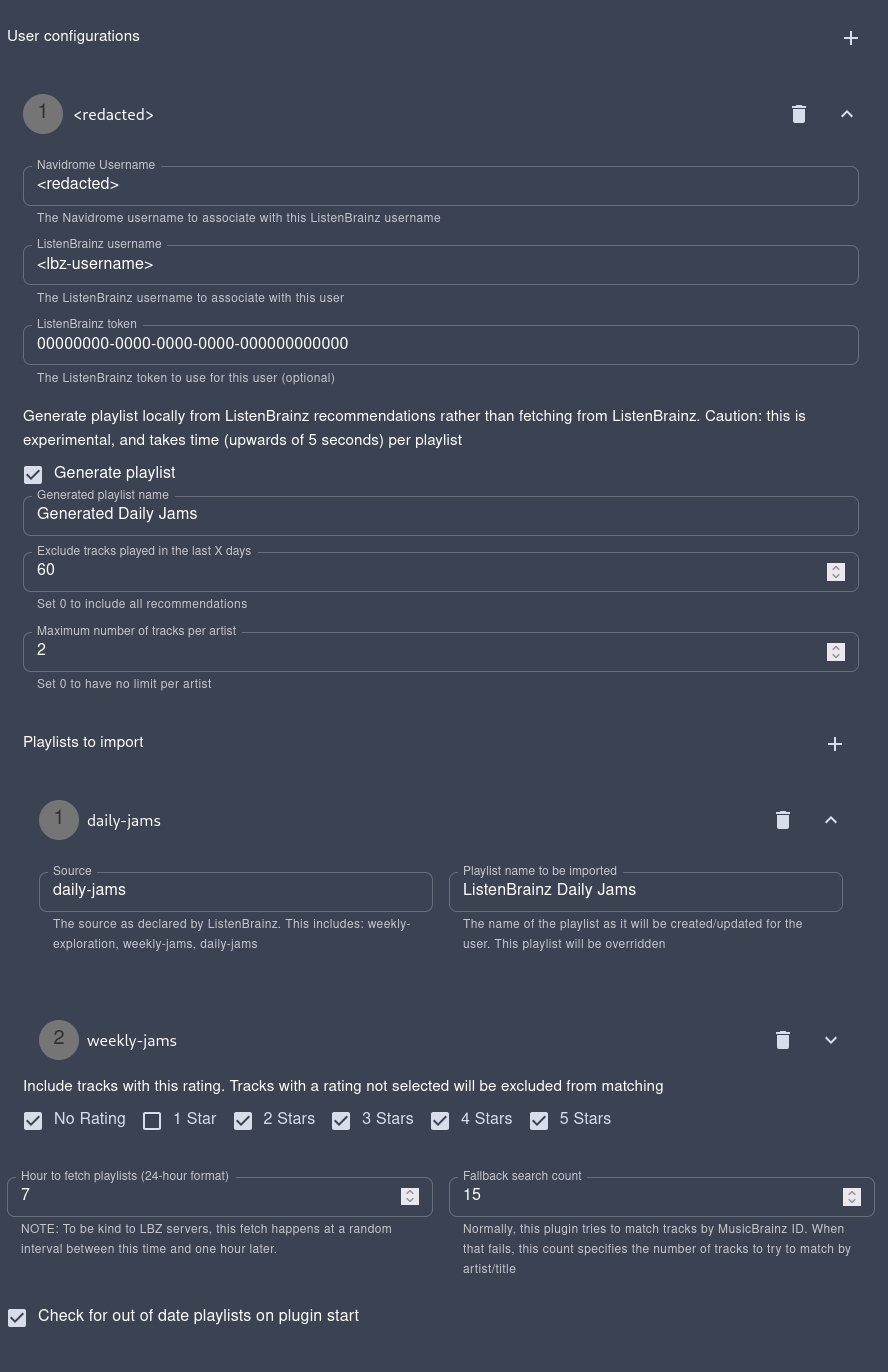
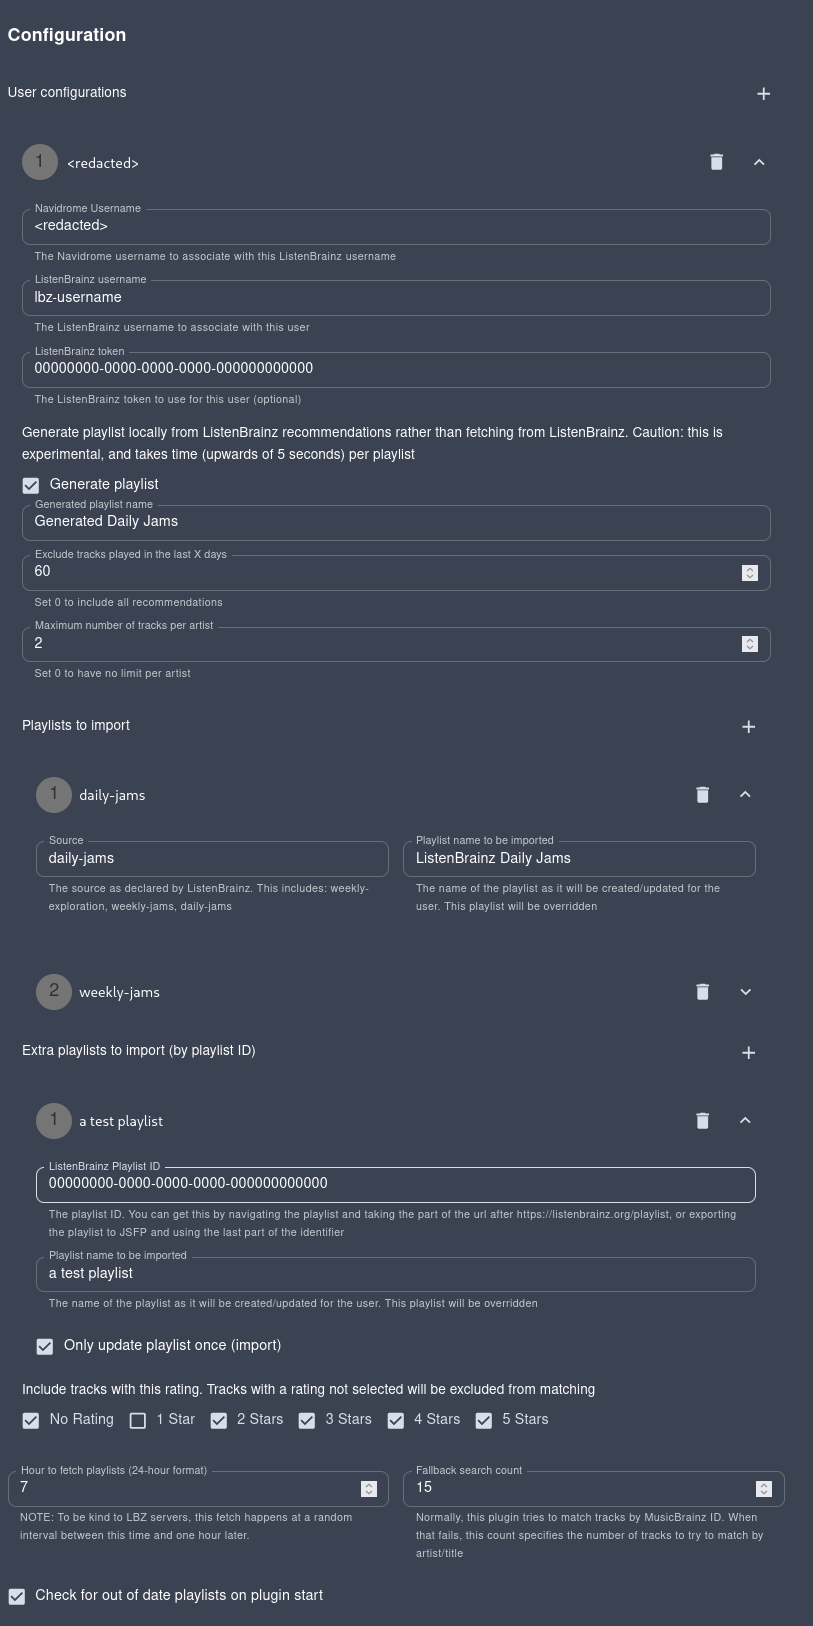
update readme, version numbers

diff --git a/listenbrainz/listenbrainz.go b/listenbrainz/listenbrainz.go
@@ -13,7 +13,7 @@ import (
 
 const (
 	lbzEndpoint = "https://api.listenbrainz.org/1"
-	userAgent   = "NavidromePlaylistImporter/4.0.3"
+	userAgent   = "NavidromePlaylistImporter/4.0.2"
 )
 
 func processRatelimit(resp *pdk.HTTPResponse) {

diff --git a/README.md b/README.md
@@ -75,12 +75,15 @@ This requires configuring one or more users, and specifying which playlists to u
     - `Playlists to import`: a list of one or more playlist types to be imported
         - `Source`: This is a ListenBrainz internal field which specifies how the playlist is generated. Examples include `weekly-jams`, `daily-jams` and `weekly-exploration`.
         - `Playlist name to be imported`: the name of the playlist that will be created within Navidrome. **CAUTION**: if a playlist with this name already exists, it will be overridden.
+    - `Extra playlists to import (by playlist ID)`: a list of additional playlists to import, using playlist ID
+        - `ListenBrainz PLaylist ID`: the ID of the playlist. When visiting a playlist like `https://listenbrainz.org/playlist/00000000-0000-0000-0000-000000000000/`, the ID is the part of of the playlist between (excluding) `/playlist/` and the last `/` (in this example, `00000000-0000-0000-0000-000000000000`). Alternatively, if you export as JSPF, this is the last part of the playlist `identifier` field.
+        - `Playlist name to be imported`: the name of the playlist that will be created within Navidrome.
     - `Include tracks with this rating.`: if you only want to import tracks with certain ratings, uncheck one or more boxes
 - `Hour to fetch playlists (24-hour format)`: the hour (24-hour moment) to fetch/generate all playlists. This is then delayed by a random interval up to an hour
 - `Fallback search count`: If a match isn't found by track name, how many tracks to search by until giving up. Between 1 and 500, inclusive
 - `Check for out of date playlists on plugin start`: If Navidrome or the plugin is restarted, check if any playlists are out of date (at least three hours old).
 
-![Image showing a full configuration. There is one user: ND username <redacted>; LBZ username <lbz-username> LBZ token uuidv4 of all zeros; generate playlist is true with name "Generated Daily Jams", excluding tracks played in the last 60 days, and allowing at most 2 tracks per artist. Two playlists are set to be imported, one is expanded with source "daily-jams" and name "ListenBrainz Daily Jams", and the other "weekly-jams" is not expanded. All ratings except 1 are selected, and the playlists are scheduled to be fetched around 7:00 AM, with a fallback search of 15 tracks. Plugin will check for out of date playlists on start](./assets/full_config.png)
+![Image showing a full configuration. There is one user: ND username <redacted>; LBZ username lbz-username LBZ token uuidv4 of all zeros; generate playlist is true with name "Generated Daily Jams", excluding tracks played in the last 60 days, and allowing at most 2 tracks per artist. Two playlists are set to be imported, one is expanded with source "daily-jams" and name "ListenBrainz Daily Jams", and the other "weekly-jams" is not expanded. One playlist is to be imported by playlist ID, with a token UUID of all 0s. All ratings except 1 are selected, and the playlists are scheduled to be fetched around 7:00 AM, with a fallback search of 15 tracks. Plugin will check for out of date playlists on start](./assets/full_config.png)
 
 To get another valid `source`, visit your `https://listenbrainz.org/user/<your username>/recommendations/`.
 Click on the inspect playlist `</>` icon and use the string in `source_patch`.
